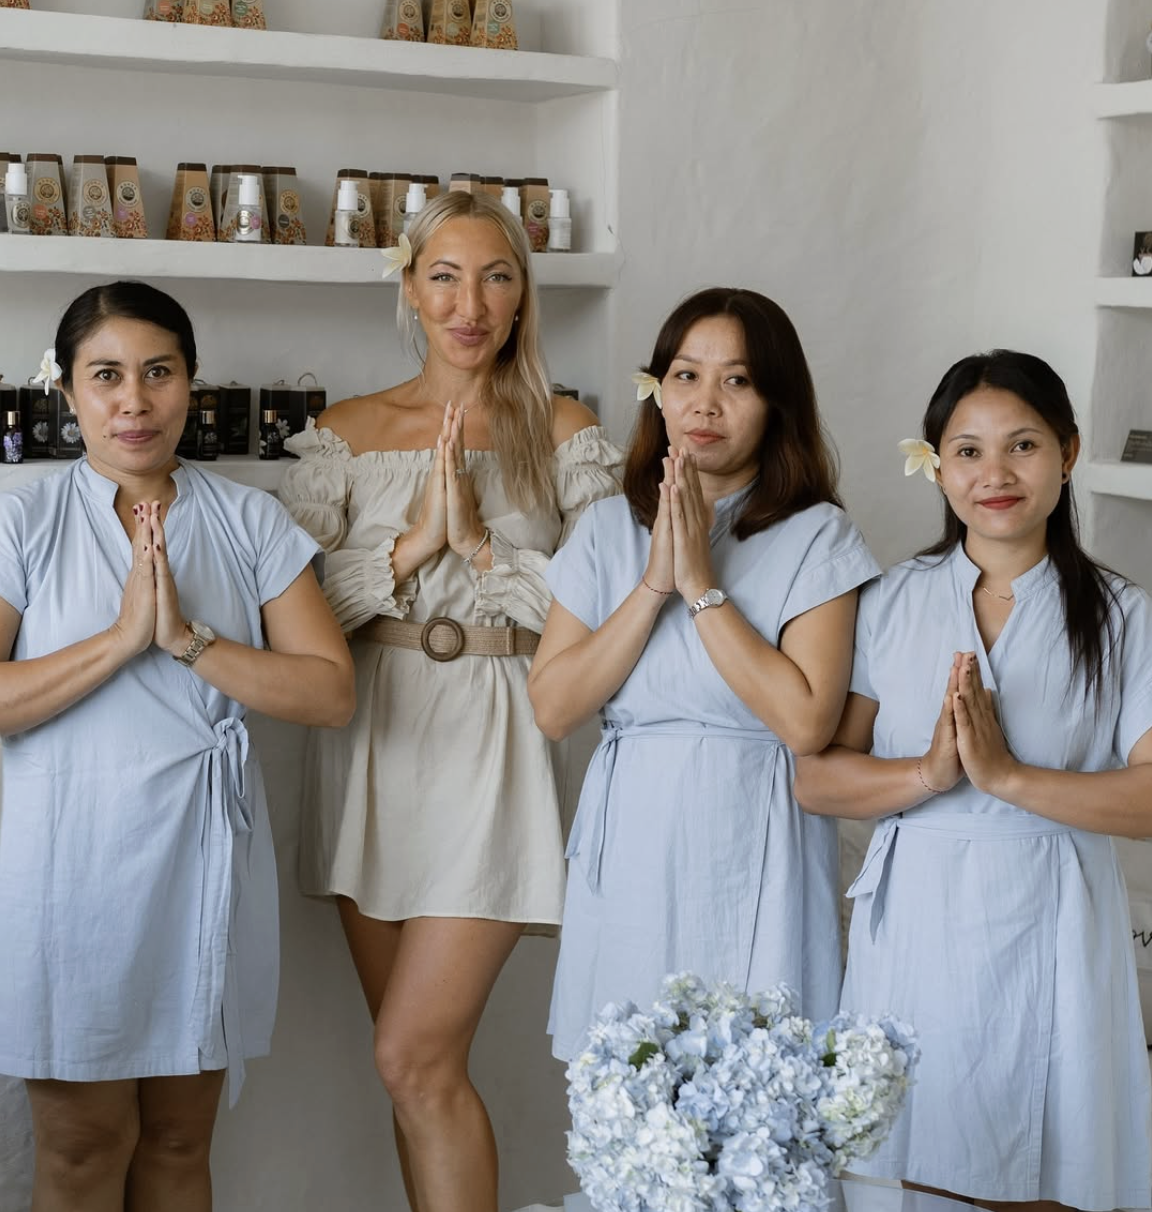
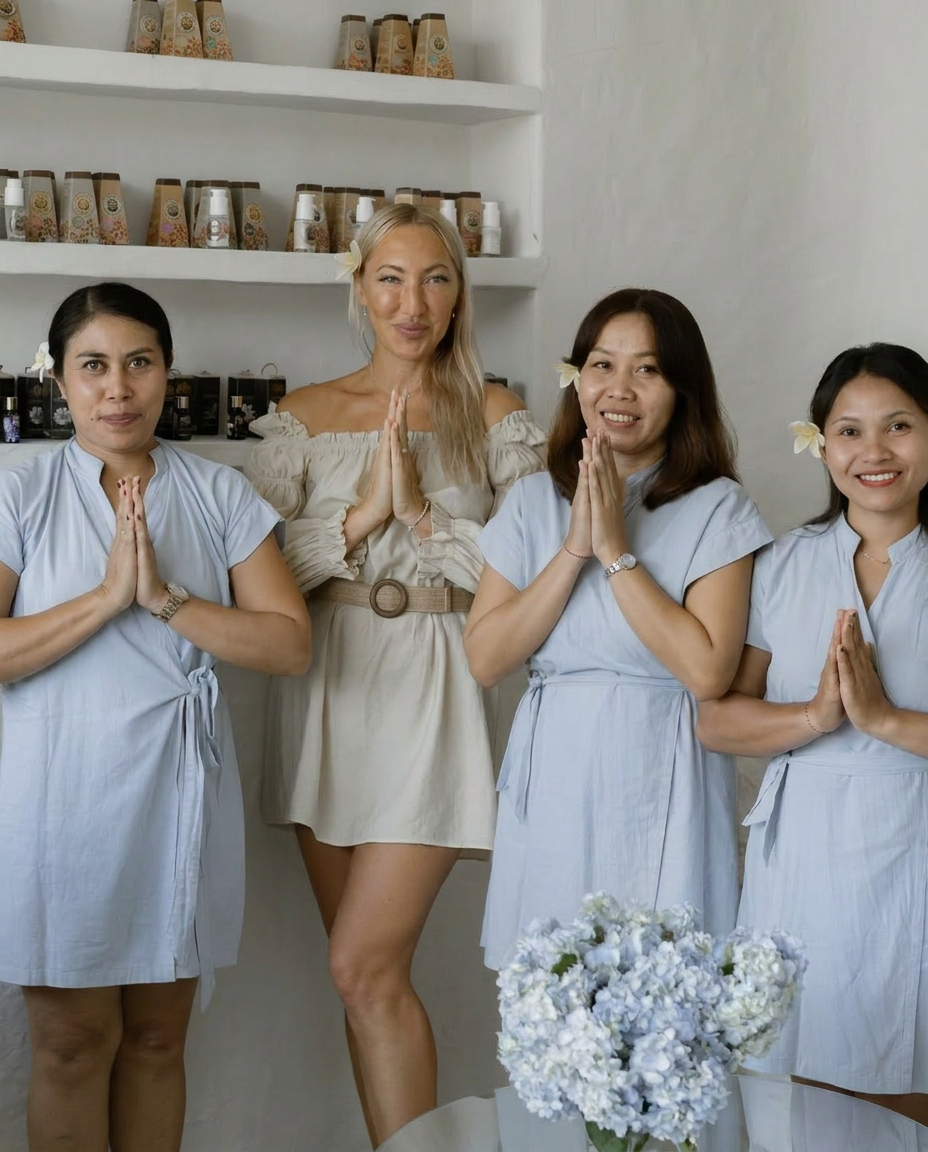
Swap hero photograph and tune the framed container ratio
Replace public/hero.png with the newer team photo. The new image is
portrait 928x1152 (vs the previous near-square 1152x1212), so update
the framed container aspect ratio to match — the photograph fills the
frame edge-to-edge instead of cropping.

diff --git a/src/components/Hero.tsx b/src/components/Hero.tsx
@@ -108,7 +108,7 @@ export default function Hero() {
               aria-hidden
               className="absolute -inset-3 md:-inset-4 border border-gold/60 translate-x-4 translate-y-4 md:translate-x-6 md:translate-y-6"
             />
-            <div className="relative aspect-[1152/1212] overflow-hidden bg-cream shadow-2xl">
+            <div className="relative aspect-[928/1152] overflow-hidden bg-cream shadow-2xl">
               <Image
                 src="/hero.png"
                 alt="The MORE Laser & Spa team in Ubud"
